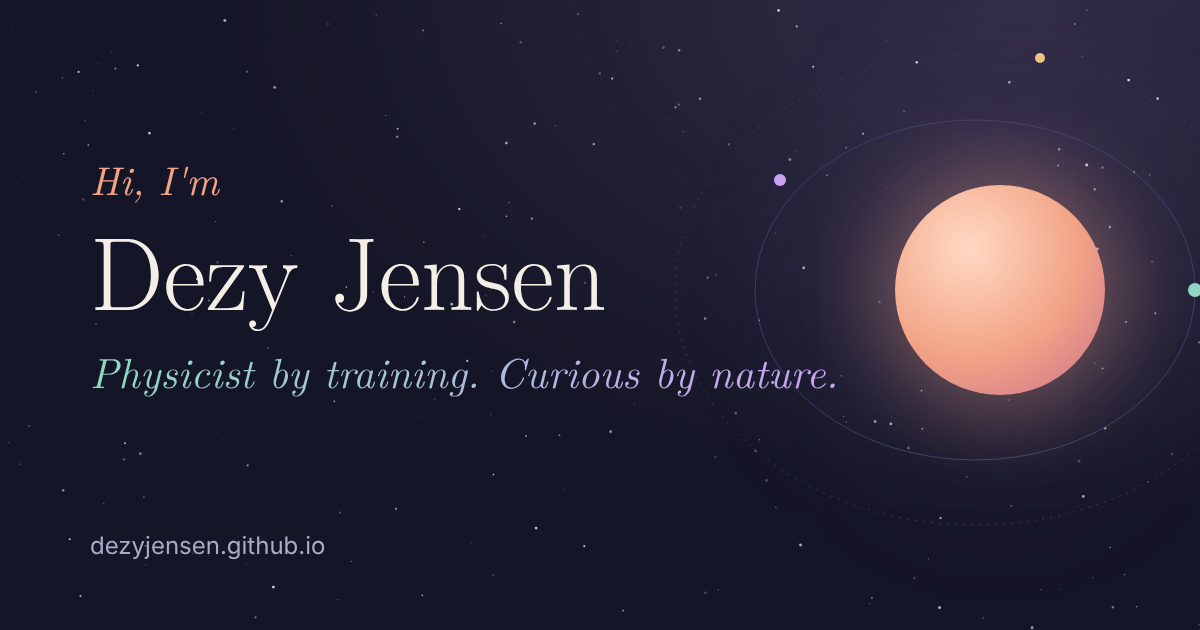
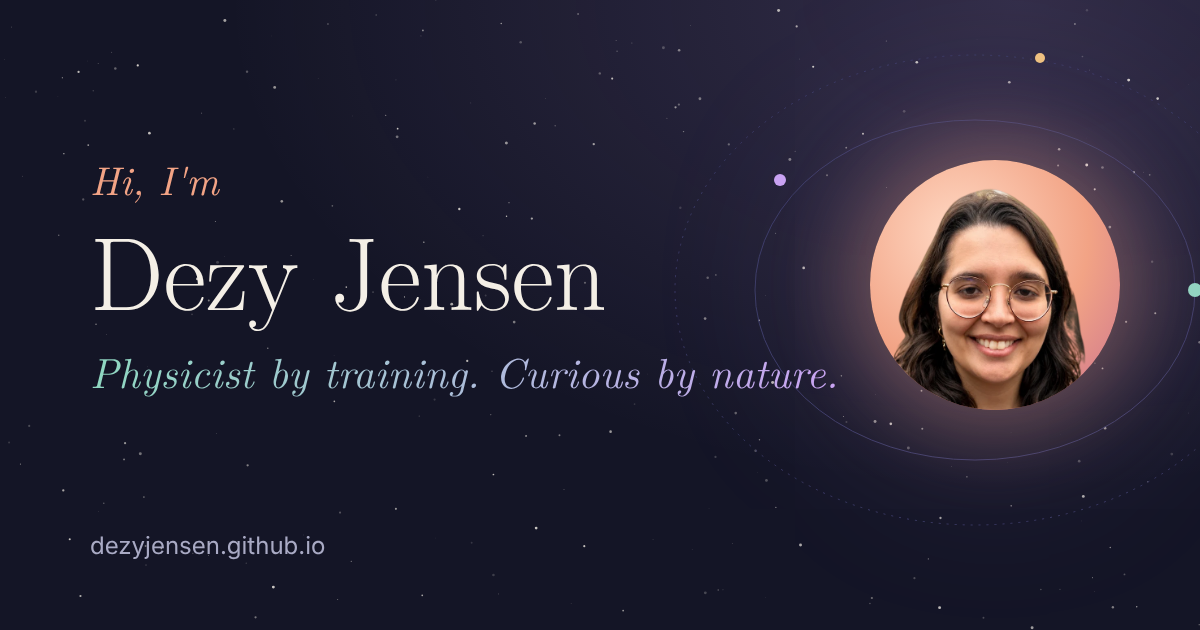
Sync site with resume repo website-draft
Adds the photo (assets/img/dezy.webp) and updated og.png, defaults to
night mode, and updates the README and styles to match.

Claude-Session: https://claude.ai/code/session_011qaC4JxN7GzGFxoehYafsh

Changed region(s): [[0.7092, 0.2413, 0.9558, 0.6635]]

diff --git a/assets/css/styles.css b/assets/css/styles.css
@@ -135,11 +135,11 @@ img { max-width: 100%; display: block; }
 .system > svg { position: absolute; inset: 0; width: 100%; height: 100%; overflow: visible; }
 .orbit { fill: none; stroke: var(--orbit); stroke-width: 1.1; }
 .sun {
-  position: absolute; left: 50%; top: 50%; width: 27.5%; aspect-ratio: 1; transform: translate(-50%, -50%);
+  position: absolute; left: 50%; top: 50%; width: 32%; aspect-ratio: 1; transform: translate(-50%, -50%);
   border-radius: 50%; background: var(--sun); box-shadow: var(--sun-glow); overflow: hidden;
   display: flex; align-items: center; justify-content: center;
 }
-.sun img { width: 100%; height: 100%; object-fit: cover; }
+.sun img { width: 100%; height: 100%; object-fit: cover; object-position: 50% 30%; transform: translateY(4%) scale(1.04); }
 .sun .mono { font-family: "LM Display", Georgia, serif; font-size: clamp(30px, 4.2vw, 48px); color: #fff; letter-spacing: 1px; text-shadow: 0 2px 12px #0000002a; }
 .planet {
   position: absolute; display: flex; align-items: center; gap: 9px;

diff --git a/assets/js/main.js b/assets/js/main.js
@@ -20,16 +20,7 @@
     b.addEventListener("click", function () { applyTheme(b.getAttribute("data-set-theme"), true); });
   });
 
-  // Follow the device setting live, unless the visitor picked a theme themselves
-  if (window.matchMedia) {
-    var mq = window.matchMedia("(prefers-color-scheme: light)");
-    var onChange = function (e) {
-      var saved = null;
-      try { saved = localStorage.getItem("theme"); } catch (err) {}
-      if (!saved) applyTheme(e.matches ? "day" : "night", false);
-    };
-    if (mq.addEventListener) mq.addEventListener("change", onChange);
-  }
+  // Night is the default; the switch remembers a visitor's choice.
 
   /* ---------- Sky: stars at night, faint sparkles by day ---------- */
   var canvas = document.getElementById("stars");

diff --git a/README.md b/README.md
@@ -2,7 +2,7 @@
 
 My personal website, live at **https://dezyjensen.github.io**.
 
-A space-themed page with a day mode (plum and peach dawn) and a night mode (aurora sky). It follows the visitor's device setting, and the Day/Night switch in the menu remembers their choice.
+A space-themed page with a day mode (plum and peach dawn) and a night mode (aurora sky). It opens in night mode, and the Day/Night switch in the menu remembers a visitor's choice.
 
 Plain HTML, CSS and a little JavaScript. No build step, no frameworks, and no outside requests (the fonts are hosted here).
 
@@ -21,11 +21,9 @@ Everything you'd want to change is in `index.html`, marked with clear section co
 
 After editing, commit and push to `main`. GitHub Pages updates the live site within a minute or two.
 
-### Adding your photo
+### Changing your photo
 
-1. Save a square-ish photo as `assets/img/dezy.jpg` (about 600 × 600 px is plenty).
-2. In `index.html`, find `<span class="mono">DJ</span>` inside the `sun` element and replace it with:
-   `<img src="assets/img/dezy.jpg" alt="Dezy Jensen">`
+Your photo is `assets/img/dezy.webp`: a square, head-and-shoulders image with a transparent background, so the glowing sun shows behind you. To swap it, replace that file with another square, transparent image (about 640 × 640 px) of the same name.
 
 ## Files
 
